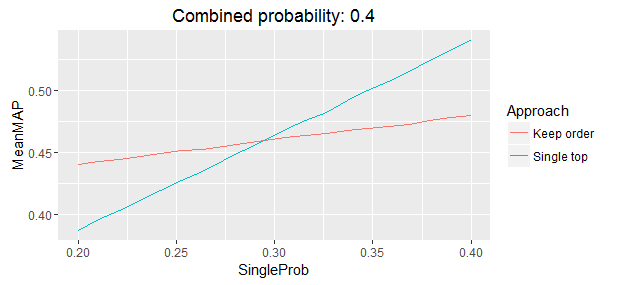
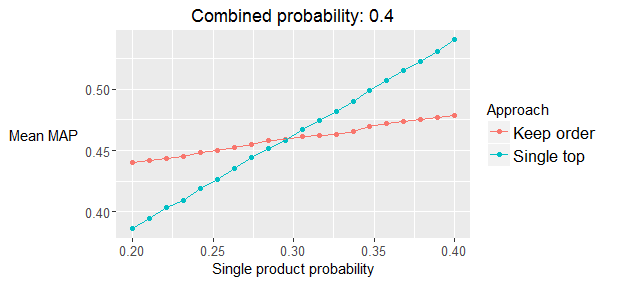
Improve plots Santander

diff --git a/_posts/2016-12-30-Second place in the Santander product Recommendation Kaggle competition.md b/_posts/2016-12-30-Second place in the Santander product Recommendation Kaggle competition.md
@@ -78,7 +78,7 @@ I also tried to bootstrap the base models but this gave results that were consis
 ## <a name="baseModelComb"><a> Base model combination
 The base models from the previous section were fit to the test data where the number of used test lags was set to the number of lags in the train data. Most weight was given to June 15 but other months all contained valuable information too although I sometimes set the weight to zero for products where the patterns changed over time (end of this section). To find a good way to combine the base models it was a good idea to look at the data interactively. The <a href="https://tvdwiele.shinyapps.io/Santander-Product-Recommendations-MonthModels/" target="_blank">second interactive Shiny application</a> compares the base model predictions on the test set for the most important products and also shows other base model related information such as the confidence in the predictions. The following two screenshots give an impression of the application but here I would again like to invite you to have a look at the data interactively. 
 {% include image.html url="/img/Santander/base model correlations.png" description="Base model correlations for cco_fin. June 2015 (Lag 5) and December 2015 (Lag 11) are special months." %}
-{% include image.html url="/img/Santander/lag predictions comparison.png" description="Base model predictions comparison for cco_fin using Lag 5 (June 2015) and Lag 11 (December 2015)" %}
+{% include image.html url="/img/Santander/lag predictions comparison.png" description="Base model predictions comparison for cco_fin using Lag 5 (June 2015) and Lag 11 (December 2015). The Pearson correlation coefficient of the predictions is 0.86." %}
 
 The interactive base model prediction application made me think of various ways to combine the base model predictions. I tried several weighted transformations but could not find a transformation that consistently worked better with respect to the target criterion than a simple weighted average of the base model predictions. Different weights were used for different products based on the interactive analysis and public leaderboard feedback. The weights of *ctma_fin* were for example set to 0 prior to October 2015 since the purchasing behavior seemed to obey to different rules prior to that date. *Cco_fin* showed particularly different behavior in June and December 2015 compared to other months and it seemed like a mixed distribution of typical *cco_fin* patterns and end of (tax) year specific patterns in those months. The table below shows the relative lag weights for all products. These are all normalized so that they sum to 1 for each product but are easier to interpret in their raw shape below. More recent months typically contribute more since they can model richer dynamics and most weight is given to June 2015. The weights for lags 1 (February 2015) and 2 (March 2015) are set to 0 for all products.
 {% include image.html url="/img/Santander/product weights.png" description="Relative base model weights by product" %}
@@ -93,13 +93,13 @@ Some product positive flanks such as nomina and nom_pens mostly rely on informat
 
 **Nomina Nom_pens reordering** *Nomina* is never bought without *nom_pens* if *nom_pens* was not owned in the previous month. I simply swapped their predicted probabilities if *nomina* was ever ranked above *nom_pens* and if both were not owned in the previous month.
 
-**MAP optimization** Imagine this situation: *cco_fin* has a positive flank probability of 0.3 and *nomina* and *nom_pens* both have a probability of 0.4 but they always share the same value. All other product probabilities are assumed to be zero. Which one should you rank on top in this situation? cco! The following plot shows a simulation study of the expected MAP where the combined (*nomina* and *nom_pens*) probability is set to 0.4 and the single (*cco_fin*) probability varies between 0.2 and 0.4. I also closed "gaps" between *nomina* and *nom_pens* when the relative probability difference was limited. This MAP optimization had great effects in local validation (~0.2% boost) but limited value on the public leaderboard. It turns out that the effect on the private leaderboard had similar positive value but that I was overfitting, leading me to conclude falsely that MAP optimization had limited value overall.
-{% include image.html url="/img/Santander/Combined 0.4 SimStudy.png" description="Mean of MAP@7 using a simulation study for two possible orderings with the combined probability set to 0.4. The single probability varies between 0.2 and 0.4." %}
+**MAP optimization** Imagine this situation: *cco_fin* has a positive flank probability of 0.3 and *nomina* and *nom_pens* both have a probability of 0.4 but they always share the same value. All other product probabilities are assumed to be zero. Which one should you rank on top in this situation? cco! The following plot shows a simulation study of the expected MAP where the combined (*nomina* and *nom_pens*) probability is set to 0.4 and the single (*cco_fin*) probability varies between 0.2 and 0.4. The plot agrees with the <a href="https://www.kaggle.com/c/santander-product-recommendation/forums/t/26824/2nd-place-solution?forumMessageId=151987#post151987" target="_blank">mathematical derivation</a> which concludes that cco_fin should be ranked as the top product to maximize the expected MAP if its probability is above 0.294. I also closed "gaps" between *nomina* and *nom_pens* when the relative probability difference was limited. This MAP optimization had great effects in local validation (~0.2% boost) but limited value on the public leaderboard. It turns out that the effect on the private leaderboard had similar positive value but that I was overfitting, leading me to conclude falsely that MAP optimization had limited value overall.
+{% include image.html url="/img/Santander/Combined 0.4 SimStudy.png" description="Mean of MAP@7 using a simulation study for two possible orderings with the combined probability set to 0.4. The single probability varies between 0.2 and 0.4. 200,000 independent simulations are used for each data point." %}
 
 
 ## <a name="Ensembling"><a> Ensembling
 I submitted two ensembles: one using my last 26 submissions where the weighted probability was calculated with the weights based on the correlation with the other submissions and the public leaderboard score. The second ensemble consisted of a manual selection of 4 of these 26 submissions that were again selected and weighted using their correlation with other submissions and public leaderboard feedback. Details of my submissions are available on <a href="https://github.com/ttvand/Santander-Product-Recommendation/blob/master/Ensembling/Submission%20Inventory.xlsx" target="_blank">GitHub</a>. The next plot shows the public leaderboard score for all final 26 submissions versus the mean mutual rank correlation. I selected the manual subset using this graph and the rank correlation of the submissions in order to make the submissions as uncorrelated as possible while still obtaining good public leaderboard feedback. 
-{% include image.html url="/img/Santander/final submissions.png" description="Public leaderboard score versus the mean mutual rank correlation for the final 26 submissions. The four indicated submissions are used in one of the final submissions. The second final submission uses all 26 submissions." %}
+{% include image.html url="/img/Santander/final submissions.png" description="Public leaderboard score versus the mean mutual rank correlation for the final 26 submissions. The four indicated submissions in red are used in the first of the two final submissions. The second final submission uses all 26 submissions." %}
 
 I only got to ensembling on the last day of the competition and only discovered after the deadline that rank averaging typically works better than probability averaging. The main reason is probably the nature of the variations I included in my final submissions since most variations were in the post-processing steps.
 
